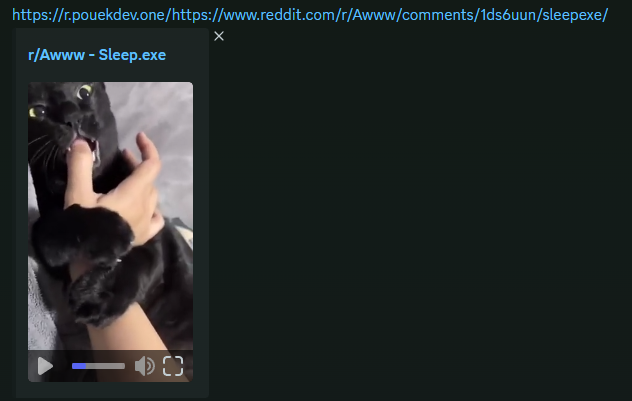
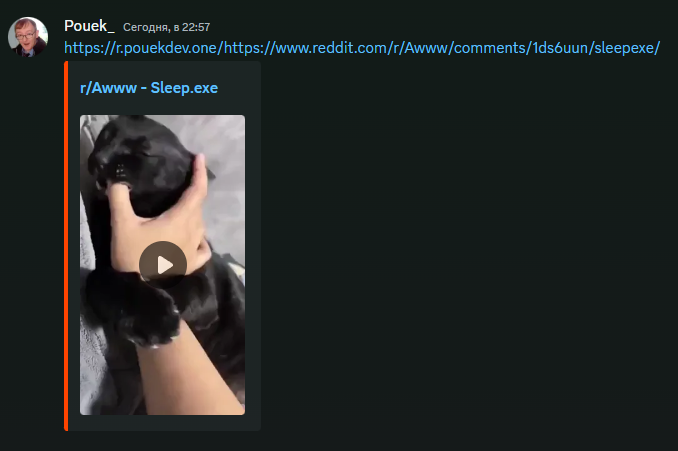
gifs now display as proper gifs, added support for images

Changed region(s): [[0.0, 0.0, 0.9921, 0.9576]]

diff --git a/reddit_proxy.py b/reddit_proxy.py
@@ -18,7 +18,7 @@ cookies = {
     "token_v2": os.getenv("TOKEN_V2"),
 }
 headers = {
-    'User-Agent': 'linux:https://github.com/PouekDEV/reddit-proxy:v1.1.0 (by /u/Pouek_)',
+    'User-Agent': 'linux:https://github.com/PouekDEV/reddit-proxy:v1.2.0 (by /u/Pouek_)',
     'From': 'stuff@pouekdev.one'
 }
 encoding = os.getenv("ENCODING", 'False').lower() in ('true', '1', 't')
@@ -77,9 +77,9 @@ def video(path):
         try:
             url = info["media"]["reddit_video"]["fallback_url"]
             name = info["id"]
-            if combine_audio_video:
-                # If it's not a gif we can try and combine the audio and video ourselves
-                if not info["media"]["reddit_video"]["is_gif"] and encoding:
+            # If it's not a gif we can try and combine the audio and video ourselves
+            if combine_audio_video and not info["media"]["reddit_video"]["is_gif"]:
+                if encoding:
                     audio_url = info["url"]
                     audio_url = audio_url + "/DASH_AUDIO_"
                     r = requests.get(url=info["media"]["reddit_video"]["hls_url"],cookies=cookies,headers=headers)
@@ -101,7 +101,7 @@ def video(path):
                     file.close()
                     return send_file(path_or_file=returnable_result,download_name="reddit_video.mp4")
                 # In case of disabled encoding utilize yt-dlp
-                elif not info["media"]["reddit_video"]["is_gif"]:
+                else:
                     with yt_dlp.YoutubeDL(ydl_opts) as ydl:
                         info = ydl.extract_info(path, download=False)
                         title = ydl.prepare_filename(info)
@@ -122,7 +122,7 @@ def video(path):
                 try:
                     url = soup.find("shreddit-player")["src"]
                 except (TypeError, KeyError):
-                    return 'Video is not hosted on reddit or the post is not a video'
+                    return 'There was an error finding media in this post'
     return redirect(url, code=302)
 
 @app.route('/', defaults={'path': ''})
@@ -152,15 +152,18 @@ def embed(path):
         height = info["media"]["reddit_video"]["height"]
     except (TypeError, KeyError):
         try:
-            width = info["preview"]["images"][0]["variants"]["gif"]["source"]["width"]
-            height = info["preview"]["images"][0]["variants"]["gif"]["source"]["height"]
+            width = info["preview"]["images"][0]["source"]["width"]
+            height = info["preview"]["images"][0]["source"]["height"]
         except (TypeError, KeyError):
             try:
                 width = info["preview"]["reddit_video_preview"]["width"]
                 height = info["preview"]["reddit_video_preview"]["height"]
             except (TypeError, KeyError):
-                return 'This post is not a video or the video is not hosted on reddit'
-    return '<head><meta name="theme-color" content="#FF4500"><meta http-equiv="refresh" content="0; url='+path+'"><meta property="og:title" content="'+name+' - '+title+'"><meta property="og:url" content="'+path+'"><meta property="og:video" content="http://'+str(request.host)+'/video'+str(request.full_path)+'"><meta property="og:image" content="http://'+str(request.host)+'/video'+str(request.full_path)+'"><meta property="og:type" content="video"><meta property="og:video:type" content="video/mp4"><meta property="og:video:width" content="'+str(width)+'"><meta property="og:video:height" content="'+str(height)+'"></head>'
+                return '<head><meta http-equiv="refresh" content="0; url='+path+'"></head>'
+    if not ".gif" in info["url"][-4:] and not ".jpeg" in info["url"][-5:] and not ".jpg" in info["url"][-4:] and not ".png" in info["url"][-4:]:
+        return '<head><meta name="theme-color" content="#FF4500"><meta http-equiv="refresh" content="0; url='+path+'"><meta property="og:title" content="'+name+' - '+title+'"><meta property="og:url" content="'+path+'"><meta property="og:video" content="http://'+str(request.host)+'/video'+str(request.full_path)+'"><meta property="og:image" content="http://'+str(request.host)+'/video'+str(request.full_path)+'"><meta property="og:type" content="video"><meta property="og:video:type" content="video/mp4"><meta property="og:video:width" content="'+str(width)+'"><meta property="og:video:height" content="'+str(height)+'"></head>'
+    else:
+        return '<head><meta name="theme-color" content="#FF4500"><meta http-equiv="refresh" content="0; url='+path+'"><meta property="og:title" content="'+name+' - '+title+'"><meta property="og:url" content="'+path+'"><meta property="og:image" content="'+info["url"]+'"><meta property="og:type" content="image"><meta property="og:image:type" content="image/gif"><meta property="og:image:width" content="'+str(width)+'"><meta property="og:image:height" content="'+str(height)+'"><meta name="twitter:card" content="summary_large_image"><meta name="twitter:image:src" content="'+info["url"]+'"></head>'
 
 if __name__ == "__main__":
     app.run(host=os.getenv("HOST") or '0.0.0.0', port=os.getenv("PORT") or 4443)

diff --git a/README.md b/README.md
@@ -1,6 +1,6 @@
 # reddit-proxy
 
-Basic flask server for grabbing reddit videos and embedding them on discord. Because nobody wants to open the whole reddit website just for one video.
+Basic flask server for grabbing reddit posts and embedding them on discord. Because nobody wants to open the whole reddit website just for one video/image/gif.
 
 ## How to use?
 
